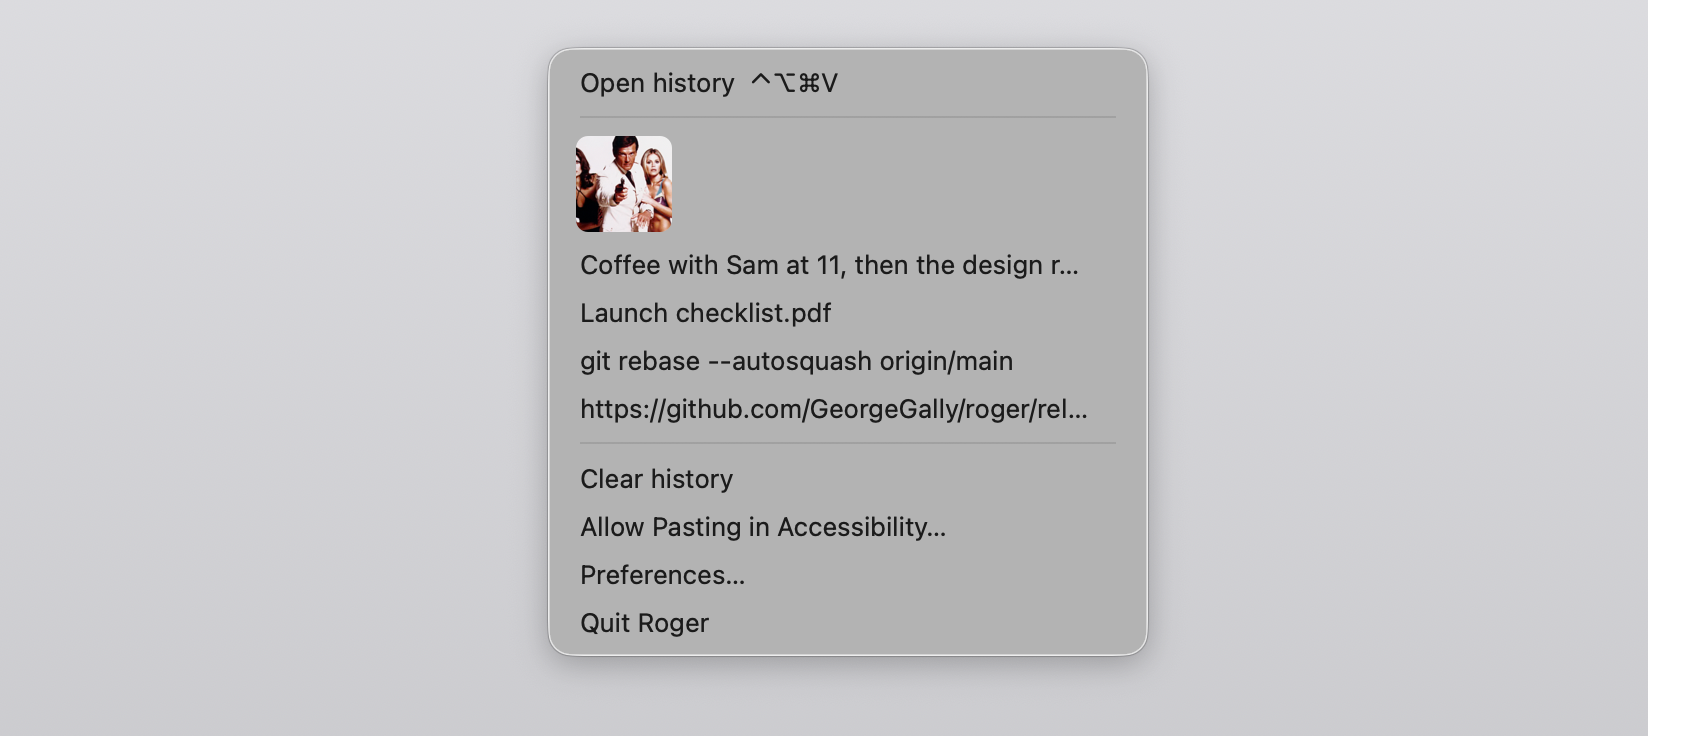
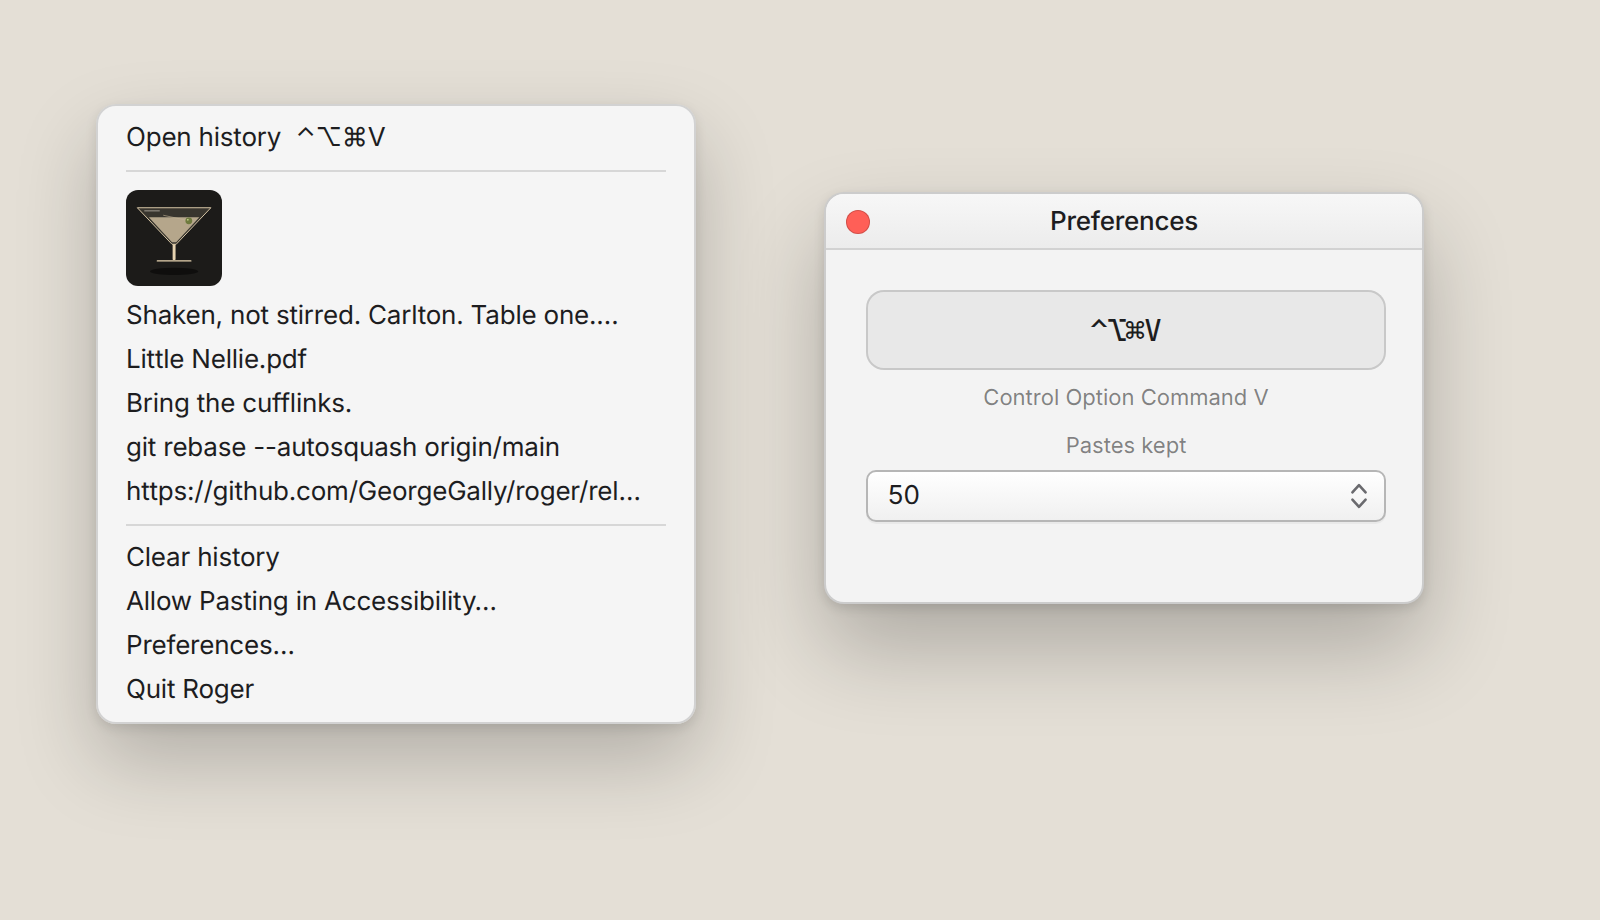
Replace the README shots with the current bezel and menu
The pictures under Use still showed the old bezel and menu. Reshoot
them from the Still frame: a martini, a ringed note, and Little
Nellie.pdf, plus the menu with Preferences and Pastes kept at 50.
The menu still lists 20 items; a new history stores 50.

diff --git a/lab/readme/shots.css b/lab/readme/shots.css
@@ -1,0 +1,194 @@
+/* README shots. The bezel metrics match lab/bezel-2 and Bezel.swift.
+   One CSS pixel is one point; Chrome shoots at 2x. */
+
+:root {
+  --paper: #E4DFD6;
+  --plate: rgba(230, 211, 176, 0.25);
+  --sans: Inter, -apple-system, "Helvetica Neue", sans-serif;
+  --mono: "JetBrains Mono", ui-monospace, monospace;
+}
+
+* { box-sizing: border-box; }
+
+html, body {
+  margin: 0;
+  background: var(--paper);
+  overflow: hidden;
+}
+
+html[data-shot="bezel"],
+html[data-shot="bezel"] body { width: 800px; height: 400px; }
+
+html[data-shot="menu"],
+html[data-shot="menu"] body { width: 800px; height: 460px; }
+
+.stage { display: none; position: relative; width: 100%; height: 100%; }
+html[data-shot="bezel"] .stage.shot-bezel,
+html[data-shot="menu"] .stage.menu { display: block; }
+
+/* Same placement as the Still hero. The stage must not carry the
+   bezel class: that class owns the panel shadow, and on an 800×400
+   stage it darkens the rounded corners of the picture. */
+.stage.shot-bezel { overflow: hidden; }
+.stage.shot-bezel .bezel { position: absolute; left: 40px; top: 74px; }
+.ring {
+  position: absolute;
+  left: 238px;
+  top: 10px;
+  width: 244px;
+  height: 192px;
+  box-sizing: border-box;
+  border-radius: 14px;
+  border: 1px solid var(--plate);
+  pointer-events: none;
+}
+.item.image img { object-position: center; }
+
+/* Menu and the Preferences window, the two AppKit surfaces. */
+.stage.menu .panel {
+  position: absolute;
+  left: 48px;
+  top: 52px;
+  width: 300px;
+  padding: 5px 0;
+  border-radius: 10px;
+  background: rgba(246, 246, 246, 0.96);
+  border: 1px solid rgba(0, 0, 0, 0.14);
+  box-shadow:
+    0 18px 40px rgba(0, 0, 0, 0.22),
+    0 2px 6px rgba(0, 0, 0, 0.10);
+  font: 13px/1 var(--sans);
+  color: #1d1d1f;
+  -webkit-font-smoothing: antialiased;
+}
+
+.stage.menu .row {
+  height: 22px;
+  display: flex;
+  align-items: center;
+  padding: 0 14px;
+  white-space: nowrap;
+  letter-spacing: -0.008em;
+}
+
+.stage.menu .row.image {
+  height: 56px;
+  padding: 0;
+}
+
+.stage.menu .row.image img {
+  width: 48px;
+  height: 48px;
+  margin-left: 14px;
+  border-radius: 6px;
+  object-fit: cover;
+  display: block;
+}
+
+.stage.menu .sep {
+  height: 1px;
+  margin: 5px 14px;
+  background: rgba(0, 0, 0, 0.12);
+}
+
+.prefs {
+  position: absolute;
+  left: 412px;
+  top: 96px;
+  width: 300px;
+  border-radius: 10px;
+  overflow: hidden;
+  background: #f3f3f3;
+  border: 1px solid rgba(0, 0, 0, 0.16);
+  box-shadow:
+    0 22px 44px rgba(0, 0, 0, 0.24),
+    0 2px 6px rgba(0, 0, 0, 0.12);
+  font-family: var(--sans);
+  -webkit-font-smoothing: antialiased;
+}
+
+.prefs .titlebar {
+  position: relative;
+  height: 28px;
+  background: linear-gradient(#f7f7f7, #ececec);
+  border-bottom: 1px solid #d2d2d2;
+}
+
+.prefs .close {
+  position: absolute;
+  left: 10px;
+  top: 8px;
+  width: 12px;
+  height: 12px;
+  border-radius: 50%;
+  background: #ff5f57;
+  box-shadow: inset 0 0 0 0.5px rgba(0, 0, 0, 0.18);
+}
+
+.prefs h2 {
+  margin: 0;
+  height: 28px;
+  display: flex;
+  align-items: center;
+  justify-content: center;
+  font: 500 13px/1 var(--sans);
+  color: #1d1d1f;
+  letter-spacing: -0.01em;
+}
+
+.prefs .body { position: relative; height: 176px; }
+
+.prefs .field {
+  position: absolute;
+  left: 20px;
+  top: 20px;
+  width: 260px;
+  height: 40px;
+  border-radius: 9px;
+  background: rgba(0, 0, 0, 0.045);
+  border: 1px solid rgba(0, 0, 0, 0.14);
+  display: flex;
+  align-items: center;
+  justify-content: center;
+  font: 500 15px/1 var(--mono);
+  letter-spacing: 0;
+  color: #1d1d1f;
+}
+
+.prefs .caption,
+.prefs .kept {
+  position: absolute;
+  left: 20px;
+  width: 260px;
+  height: 16px;
+  margin: 0;
+  display: flex;
+  align-items: center;
+  justify-content: center;
+  font: 11px/16px var(--sans);
+  color: rgba(0, 0, 0, 0.48);
+}
+
+.prefs .caption { top: 66px; }
+.prefs .kept { top: 90px; }
+
+.prefs .popup {
+  position: absolute;
+  left: 20px;
+  top: 110px;
+  width: 260px;
+  height: 26px;
+  border-radius: 5px;
+  border: 1px solid #b6b6b6;
+  background: linear-gradient(#ffffff, #f0f0f0);
+  box-shadow: inset 0 1px 0 #fff, 0 1px 0 rgba(0, 0, 0, 0.04);
+  display: flex;
+  align-items: center;
+  padding: 0 8px 0 10px;
+  font: 13px/1 var(--sans);
+  color: #1d1d1f;
+}
+
+.prefs .popup span { margin-right: auto; }
+
+.prefs .popup svg { display: block; }

diff --git a/lab/readme/shots.html b/lab/readme/shots.html
@@ -1,0 +1,67 @@
+<!DOCTYPE html>
+<html lang="en">
+<head>
+<meta charset="utf-8">
+<title>Roger · README shots</title>
+<link rel="stylesheet" href="../bezel-2/bezel.css">
+<link rel="stylesheet" href="shots.css">
+<script>
+  document.documentElement.dataset.shot = new URLSearchParams(location.search).get("shot") || "bezel";
+</script>
+</head>
+<body>
+  <div class="stage shot-bezel">
+    <div class="bezel">
+      <div class="surface">
+        <div class="ring"></div>
+        <div class="strip">
+          <div class="item image pos-l"><img src="martini.svg" alt=""></div>
+          <div class="item text pos-c"><p>Shaken, not stirred.<br>Carlton. Table one.<br>DB5 is out front.<br>Walther stays home.</p></div>
+          <div class="item file pos-r">
+            <img class="glyph" src="../bezel-2/assets/pdf.svg" alt="">
+            <span class="name">Little Nellie.pdf</span>
+          </div>
+        </div>
+        <p class="counter">2 of 6</p>
+      </div>
+    </div>
+  </div>
+
+  <div class="stage menu">
+    <div class="panel" role="menu">
+      <div class="row">Open history&nbsp;&nbsp;⌃⌥⌘V</div>
+      <div class="sep"></div>
+      <div class="row image"><img src="martini.svg" alt=""></div>
+      <div class="row">Shaken, not stirred. Carlton. Table one.…</div>
+      <div class="row">Little Nellie.pdf</div>
+      <div class="row">Bring the cufflinks.</div>
+      <div class="row">git rebase --autosquash origin/main</div>
+      <div class="row">https://github.com/GeorgeGally/roger/rel…</div>
+      <div class="sep"></div>
+      <div class="row">Clear history</div>
+      <div class="row">Allow Pasting in Accessibility…</div>
+      <div class="row">Preferences…</div>
+      <div class="row">Quit Roger</div>
+    </div>
+
+    <div class="prefs">
+      <div class="titlebar">
+        <div class="close"></div>
+        <h2>Preferences</h2>
+      </div>
+      <div class="body">
+        <div class="field">⌃⌥⌘V</div>
+        <p class="caption">Control Option Command V</p>
+        <p class="kept">Pastes kept</p>
+        <div class="popup">
+          <span>50</span>
+          <svg width="9" height="14" viewBox="0 0 9 14" aria-hidden="true">
+            <path d="M1.2 5.2 L4.5 1.6 L7.8 5.2" fill="none" stroke="#6a6a6e" stroke-width="1.3" stroke-linejoin="round" stroke-linecap="round"/>
+            <path d="M1.2 8.8 L4.5 12.4 L7.8 8.8" fill="none" stroke="#6a6a6e" stroke-width="1.3" stroke-linejoin="round" stroke-linecap="round"/>
+          </svg>
+        </div>
+      </div>
+    </div>
+  </div>
+</body>
+</html>

diff --git a/README.md b/README.md
@@ -38,13 +38,12 @@ Change it in Preferences.
 - Press Return to copy the selected item and paste it into the app you were
   using. Escape dismisses.
 - Click the menu-bar icon for the 20 most recent items, Clear history,
-  Preferences, and Quit.
+  Preferences, and Quit. Preferences chooses how many pastes to keep:
+  25, 50, 100, or 200. A new history starts at 50.
 
-![The bezel open on a text item](docs/screenshots/bezel.png)
+![The bezel on a martini, a note, and a gadget file, with the note ringed](docs/screenshots/bezel.png)
 
-![The menu-bar menu with text and image rows](docs/screenshots/menu.png)
-
-![I copy, over and out](docs/screenshots/copy-that.png)
+![The menu-bar menu and Preferences, with Pastes kept set to 50](docs/screenshots/menu.png)
 
 ## Support
 
